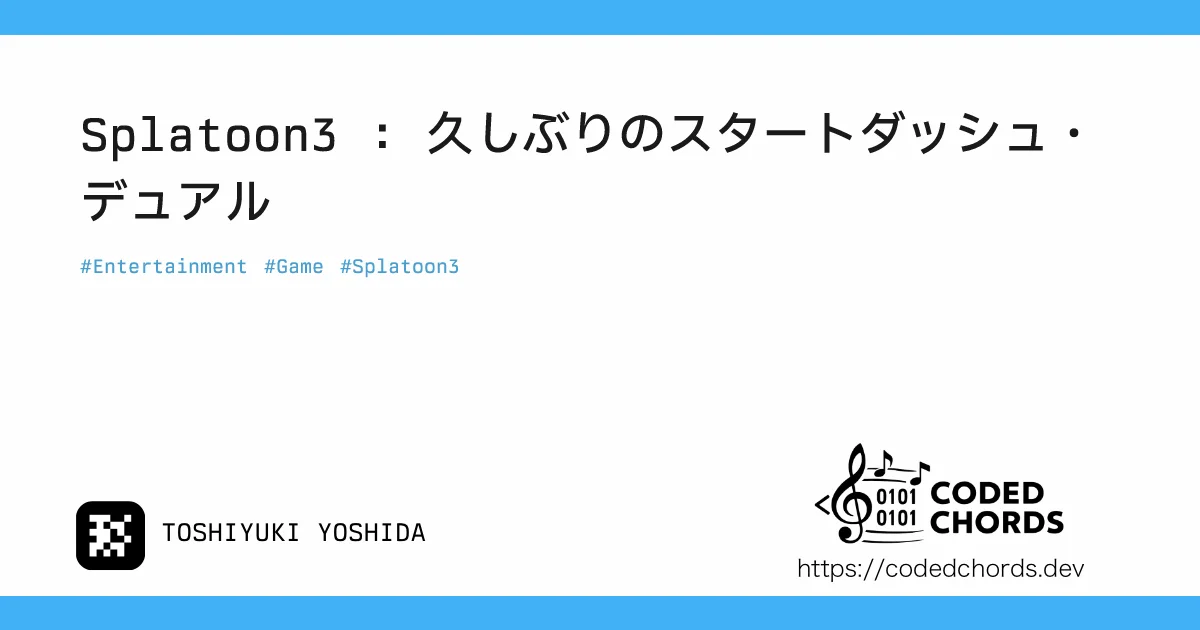
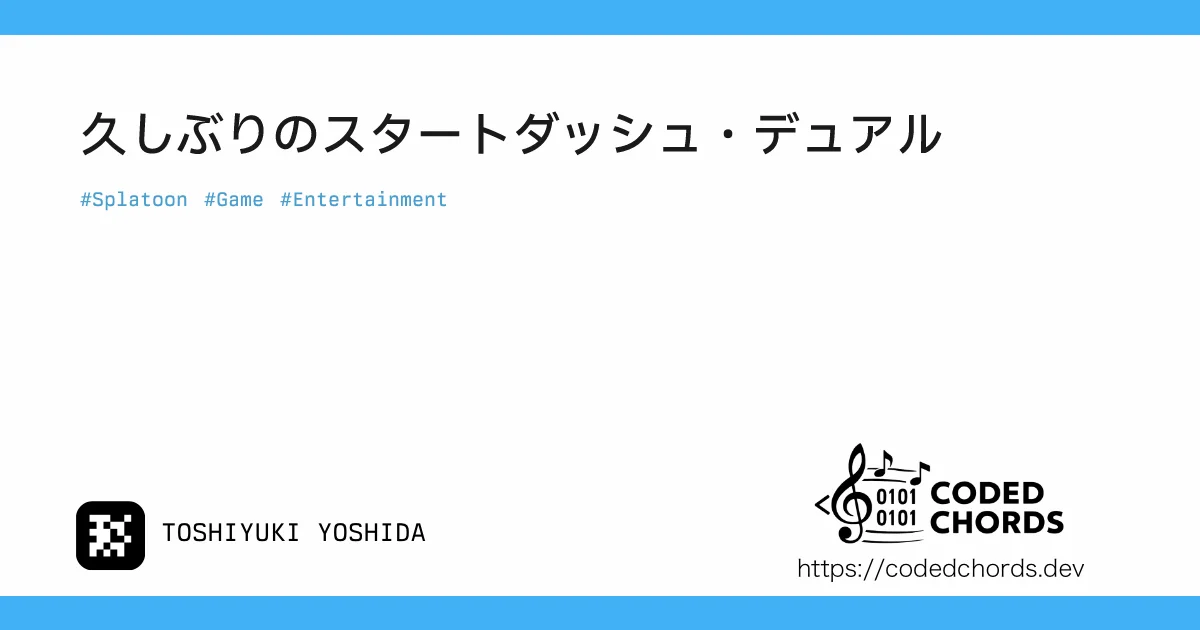
content: publish start-dash-dual

Changed region(s): [[0.0617, 0.181, 0.8633, 0.2413], [0.0617, 0.3921, 0.37, 0.4524], [0.0617, 0.2714, 0.37, 0.3619]]

diff --git a/content/blog/2026/04/start-dash-dual/index.md b/content/blog/2026/04/start-dash-dual/index.md
@@ -1,11 +1,9 @@
 +++
-title = "Splatoon3 : 久しぶりのスタートダッシュ・デュアル"
-description = """
-description
-"""
+title = "久しぶりのスタートダッシュ・デュアル"
+description = "ご無沙汰していたスタートダッシュ・デュアルを久しぶりに握ったら、思いのほかキルが取れて気分よくプレイできました。"
 date = 2026-04-26T10:16:48+09:00
 [taxonomies]
-tags =[ "Entertainment","Game","Splatoon3" ]
+tags = ["Splatoon", "Game", "Entertainment"]
 [extra]
 social_media_card = "ogp.webp"
 local_image = "cover.webp"
